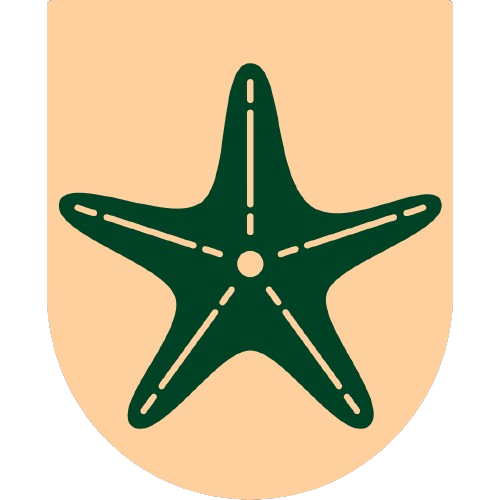
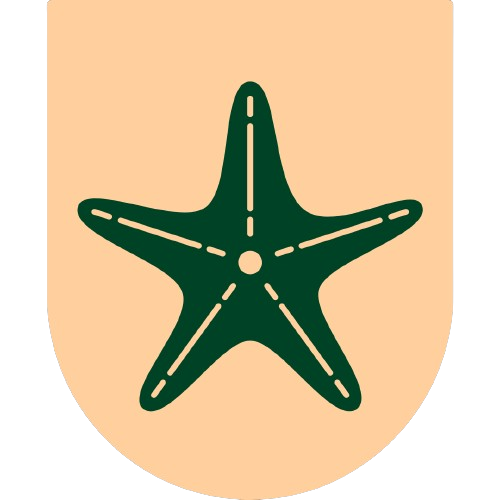
Hello Dude

diff --git a/site/frontend/src/love/dFunction/gBrand.js b/site/frontend/src/love/dFunction/gBrand.js
@@ -14,12 +14,17 @@ import techfolio from "@/love/hAsset/business/13.png";
 import apurvchatur from "@/love/hAsset/business/14.png";
 import anushreemandape from "@/love/hAsset/business/15.png";
 import sofieberkin from "@/love/hAsset/business/16.png";
+import blogify from "@/love/hAsset/business/17.png";
+import srimadbhagwatam from "@/love/hAsset/business/18.png";
+import bhagwadgita from "@/love/hAsset/business/19.png";
+import interviewquestion from "@/love/hAsset/business/20.png";
+import swifttalk from "@/love/hAsset/business/21.png";
 
 const brand = () => {
 	var brandObject
 
 		brandObject = {
-			logo: techfolio,
+			logo: blogify,
 			name: "Blogify Firm",
 			app: "https://beehive-frontend.netlify.app/",
 			admin: "https://beehive-admin.netlify.app/"
